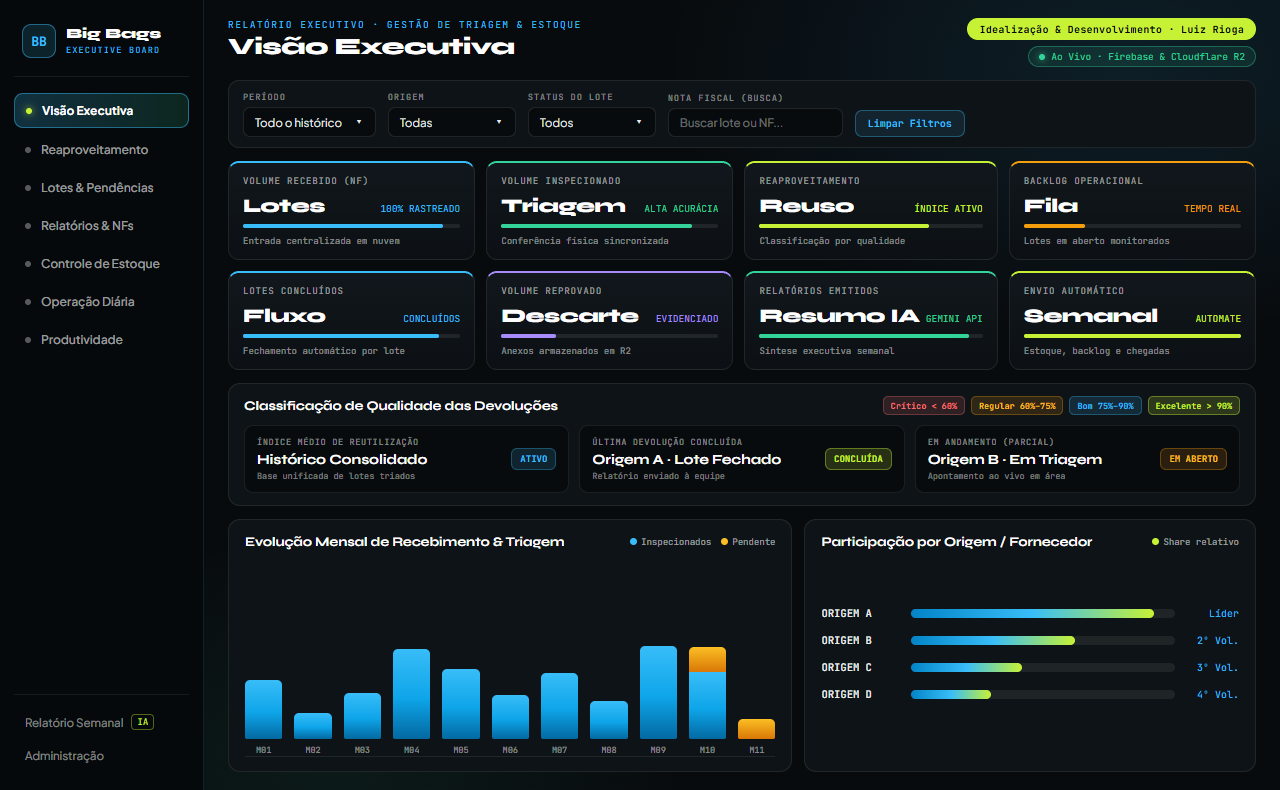
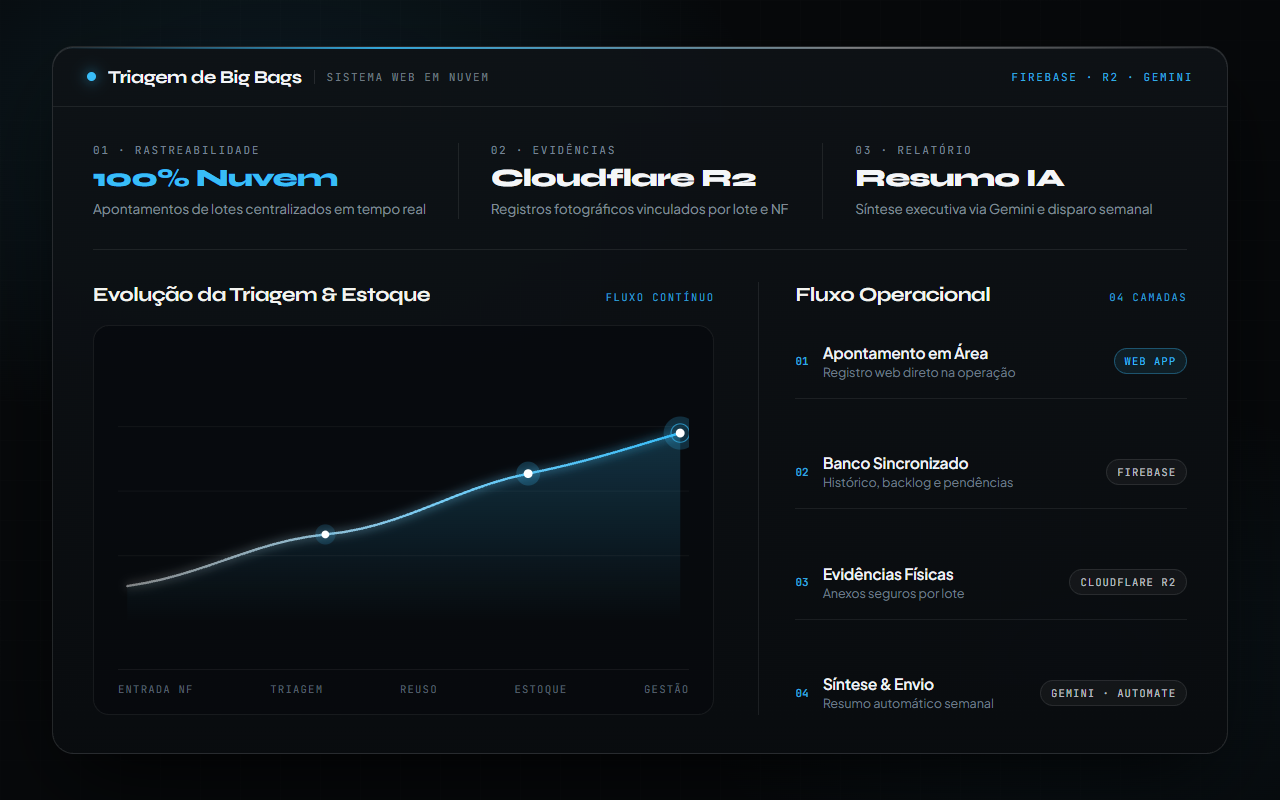
Revert Formacao badges test and replace Big Bags & Fretefy images with minimalist UI art

diff --git a/js/main.js b/js/main.js
@@ -1487,12 +1487,12 @@
       } else if (p.id === 'bigbag') {
         mediaInner = `
           <div class="relative w-full h-[154px] rounded-[14px] overflow-hidden border border-[#38BDF8]/35 bg-[#070A0D] flex items-center justify-center p-1">
-            <img src="assets/bigbag-app.png?v=20261124b" alt="Interface do sistema de Triagem de Big Bags" loading="lazy" decoding="async" draggable="false" class="w-full h-full object-cover object-left-top rounded-[10px] select-none" />
+            <img src="assets/bigbag-app.png?v=20261128a" alt="Interface do sistema de Triagem de Big Bags" loading="lazy" decoding="async" draggable="false" class="w-full h-full object-cover object-left-top rounded-[10px] select-none" />
           </div>`;
       } else if (p.id === 'fretefy') {
         mediaInner = `
           <div class="relative w-full h-[154px] rounded-[14px] overflow-hidden border border-[#F59E0B]/35 bg-[#090806] flex items-center justify-center p-1">
-            <img src="assets/fretefy-panel.png?v=20261124b" alt="Painel BI de carregamento Fretefy" loading="lazy" decoding="async" draggable="false" class="w-full h-full object-cover object-top rounded-[10px] select-none" />
+            <img src="assets/fretefy-panel.png?v=20261128a" alt="Painel BI de carregamento Fretefy" loading="lazy" decoding="async" draggable="false" class="w-full h-full object-cover object-top rounded-[10px] select-none" />
           </div>`;
       } else {
         mediaInner = `
@@ -1556,7 +1556,7 @@
 
             <div data-deck-bb-panel="ui" class="flex-1 flex flex-col justify-between gap-3">
               <div class="relative rounded-xl overflow-hidden border border-[#38BDF8]/30 bg-[#070A0D] flex-1 min-h-[285px] flex items-center justify-center p-1.5 group/bb">
-                <img src="assets/bigbag-app.png?v=20261124b" alt="Interface executiva do sistema de Triagem de Big Bags" loading="lazy" decoding="async" draggable="false" class="w-full h-full max-h-[335px] object-contain rounded-lg group-hover/bb:scale-[1.015] transition-transform duration-500 select-none" />
+                <img src="assets/bigbag-app.png?v=20261128a" alt="Interface executiva do sistema de Triagem de Big Bags" loading="lazy" decoding="async" draggable="false" class="w-full h-full max-h-[335px] object-contain rounded-lg group-hover/bb:scale-[1.015] transition-transform duration-500 select-none" />
               </div>
               <div class="px-3.5 py-2.5 rounded-xl bg-carbon border hairline-dark font-mono text-[10px] text-ink/80 flex items-center justify-between gap-2">
                 <span>Visão Executiva em tempo real · triagem, estoque e backlog</span>
@@ -1603,7 +1603,7 @@
 
             <div data-deck-fr-panel="ui" class="flex-1 flex flex-col justify-between gap-3">
               <div class="relative rounded-xl overflow-hidden border border-[#F59E0B]/30 bg-[#090806] flex-1 min-h-[285px] flex items-center justify-center p-1.5 group/fr">
-                <img src="assets/fretefy-panel.png?v=20261124b" alt="Painel operacional de carregamento gerado pelo pipeline ETL em Power Query" loading="lazy" decoding="async" draggable="false" class="w-full h-full max-h-[335px] object-contain rounded-lg group-hover/fr:scale-[1.015] transition-transform duration-500 select-none" />
+                <img src="assets/fretefy-panel.png?v=20261128a" alt="Painel operacional de carregamento gerado pelo pipeline ETL em Power Query" loading="lazy" decoding="async" draggable="false" class="w-full h-full max-h-[335px] object-contain rounded-lg group-hover/fr:scale-[1.015] transition-transform duration-500 select-none" />
               </div>
               <div class="px-3.5 py-2.5 rounded-xl bg-carbon border hairline-dark font-mono text-[10px] text-ink/80 flex items-center justify-between gap-2">
                 <span>Painel de carregamento · 8 KPIs por dia, turno, doca e frota</span>
@@ -2363,7 +2363,7 @@
             title: 'Automação Fretefy',
             sub: 'Power Query · TPV < 5 min · 8 KPIs',
             accent: '#F59E0B',
-            img: 'assets/fretefy-panel.png?v=20261124b'
+            img: 'assets/fretefy-panel.png?v=20261128a'
           },
           {
             id: 'bigbag',
@@ -2371,7 +2371,7 @@
             title: 'Triagem de Big Bags',
             sub: 'Web · Firebase · R2 · Gemini API',
             accent: '#38BDF8',
-            img: 'assets/bigbag-app.png?v=20261124b'
+            img: 'assets/bigbag-app.png?v=20261128a'
           }
         ],
         accent: '#38BDF8',
@@ -3618,7 +3618,7 @@
             <span class="text-muted">WEB · FIREBASE · R2 · IA</span>
           </div>
           <div class="rounded-xl overflow-hidden border border-white/10 bg-[#070A0D]">
-            <img src="assets/bigbag-app.png?v=20261124b" alt="Tela Visão Executiva do sistema web de Triagem de Big Bags" loading="lazy" decoding="async" class="w-full h-auto block" />
+            <img src="assets/bigbag-app.png?v=20261128a" alt="Tela Visão Executiva do sistema web de Triagem de Big Bags" loading="lazy" decoding="async" class="w-full h-auto block" />
           </div>
         </div>
         ${buildIsometricWidgetHTML('bigbag', 'ECOSSISTEMA DIGITAL · 06 CAMADAS', 'Operação → Nuvem → IA → Distribuição semanal', project)}
@@ -3646,7 +3646,7 @@
             <span class="text-muted">EXCEL · POWER QUERY · 8 KPIS</span>
           </div>
           <div class="rounded-xl overflow-hidden border border-white/10 bg-[#090806]">
-            <img src="assets/fretefy-panel.png?v=20261124b" alt="Painel de operações de carregamento automatizado em Excel e Power Query" loading="lazy" decoding="async" class="w-full h-auto block" />
+            <img src="assets/fretefy-panel.png?v=20261128a" alt="Painel de operações de carregamento automatizado em Excel e Power Query" loading="lazy" decoding="async" class="w-full h-auto block" />
           </div>
         </div>
         ${buildIsometricWidgetHTML('fretefy-etl', 'FRETEFY ETL · 04 ESTÁGIOS 3D', 'Pipeline Power Query → TPV & 8 KPIs', project)}
@@ -4501,7 +4501,7 @@
   renderMobileToolbox();
 
   /* ==========================================================================
-     17b. QUADRO DE INSÍGNIAS — SELOS CONQUISTADOS, EM ROTA & CAMPO (PATCHES)
+     17b. MATRIZ ACADÊMICA INTERATIVA (SEM BARRAS DE PROFICIÊNCIA)
      ========================================================================== */
   (function initDifferentialsMatrix() {
     const shell = document.getElementById('diff-matrix-shell');
@@ -4512,78 +4512,38 @@
     if (!shell || !grid) return;
 
     const modeBtns = Array.from(shell.querySelectorAll('[data-diff-mode]'));
-    const MODE_ORDER = ['selos', 'rota', 'campo'];
+    const MODE_ORDER = ['base', 'hard', 'soft'];
     const CYCLE_MS = 5500;
 
-    function buildPatchCrest(iconSvg, color, isTarget) {
-      return `
-        <svg class="patch-crest" viewBox="0 0 40 40" fill="none" aria-hidden="true">
-          <polygon
-            points="20,2.5 35,11 35,29 20,37.5 5,29 5,11"
-            fill="${color}18"
-            stroke="${color}"
-            stroke-width="1.35"
-            ${isTarget ? 'stroke-dasharray="3.5 2.5"' : ''}
-            stroke-linejoin="round"
-          />
-          <polygon
-            points="20,6.2 31.8,12.9 31.8,27.1 20,33.8 8.2,27.1 8.2,12.9"
-            fill="none"
-            stroke="${color}"
-            stroke-opacity="0.34"
-            stroke-width="0.85"
-            stroke-dasharray="2 2"
-          />
-          <g stroke="${color}" stroke-width="1.55" stroke-linecap="round" stroke-linejoin="round">
-            ${iconSvg}
-          </g>
-        </svg>`;
-    }
-
-    const PATCH_ICONS = {
-      ai: '<path d="M20 12.5l1.9 5.1 5.1 1.9-5.1 1.9-1.9 5.1-1.9-5.1-5.1-1.9 5.1-1.9 1.9-5.1z"/><circle cx="25.5" cy="14.5" r="1.1" fill="currentColor" stroke="none"/>',
-      orbit: '<circle cx="20" cy="20" r="3.2"/><ellipse cx="20" cy="20" rx="8.8" ry="3.8" transform="rotate(-28 20 20)"/><circle cx="26.2" cy="15.8" r="1.4" fill="currentColor" stroke="none"/>',
-      star: '<path d="M20 12.2l2.3 4.8 5.2.7-3.8 3.6.9 5.2-4.6-2.5-4.6 2.5.9-5.2-3.8-3.6 5.2-.7 2.3-4.8z"/>',
-      math: '<polygon points="20,12 27.5,16.5 27.5,24.5 20,28.5 12.5,24.5 12.5,16.5"/><path d="M20 12v16.5M12.5 16.5L20 20.5l7.5-4"/>',
-      git: '<circle cx="15.5" cy="14.5" r="2"/><circle cx="15.5" cy="25.5" r="2"/><circle cx="24.5" cy="18.5" r="2"/><path d="M15.5 16.5v7M24.5 20.5c0 3-4.5 3-9 3"/>',
-      process: '<path d="M14.5 17a5.5 5.5 0 0 1 9.6-2.5"/><path d="M24.5 12.5v2.8h-2.8"/><path d="M25.5 23a5.5 5.5 0 0 1-9.6 2.5"/><path d="M15.5 27.5v-2.8h2.8"/>',
-      eng: '<path d="M13.5 25.5h13M15.5 22.5v-5.5l4.5-3.5 4.5 3.5v5.5"/><path d="M18.5 22.5v-3.5h3v3.5"/>',
-      cloud: '<path d="M15 24.5h9.5a3.5 3.5 0 0 0 .7-6.9 4.8 4.8 0 0 0-9.1-1.3 3.3 3.3 0 0 0-1.1 8.2z"/>',
-      mic: '<rect x="17.5" y="12.5" width="5" height="8.5" rx="2.5"/><path d="M14.5 19.5a5.5 5.5 0 0 0 11 0M20 25v3M17 28h6"/>',
-      chip: '<rect x="16" y="16" width="8" height="8" rx="1.2"/><path d="M18 12.5v3.5M22 12.5v3.5M18 24v3.5M22 24v3.5M12.5 18h3.5M12.5 22h3.5M24 18h3.5M24 22h3.5"/>',
-      compass: '<circle cx="20" cy="20" r="7.5"/><polygon points="23.5,16.5 21.2,21.2 16.5,23.5 18.8,18.8"/>',
-      field: '<path d="M14 20.5l3.6 3.5 8.4-8.2"/><path d="M13.5 14h4M13.5 26.5h13"/>'
-    };
-
     const MODES = {
-      selos: {
-        eyebrow: 'INSÍGNIAS // SELOS CONQUISTADOS',
-        tag: 'MÉRITO COMPROVADO',
+      base: {
+        eyebrow: 'BASE // FORMAÇÃO & PRÁTICA',
+        tag: 'TEORIA → PRÁTICA',
         items: [
-          { badge: '2026', title: 'Google AI Pro', sub: 'Coursera · 8 módulos', color: '#C6F135', icon: 'ai', target: false },
-          { badge: '2026', title: 'NASA Space Apps', sub: 'Desafio Global · AgTech', color: '#38BDF8', icon: 'orbit', target: false },
-          { badge: '2023', title: 'Rio Innovation Week', sub: 'Exposição Bitmind · 3ª ed.', color: '#F59E0B', icon: 'star', target: false },
-          { badge: '1.280h', title: 'Aprendizagem Ind.', sub: 'Rede Cidadã · 2025', color: '#A78BFA', icon: 'math', target: false }
+          { cat: 'ENGENHARIA', title: 'Controle & Automação', sub: 'UFOP · Escola de Minas', color: '#C6F135' },
+          { cat: 'TÉCNICO', title: 'Automação Industrial', sub: 'IFMG · CLP & Bancada', color: '#F59E0B' },
+          { cat: 'INOVAÇÃO', title: 'Hardware, Web & IA', sub: 'Bitmind · RIW · AgTech', color: '#38BDF8' },
+          { cat: 'OPERACIONAL', title: 'Indústria & Dados', sub: 'Actech · Expedição', color: '#A78BFA' }
         ]
       },
-      rota: {
-        eyebrow: 'RADAR // PRÓXIMOS SELOS',
-        tag: 'EM PREPARAÇÃO',
+      hard: {
+        eyebrow: 'COMPETÊNCIAS // TÉCNICAS',
+        tag: 'FERRAMENTAS APLICADAS',
         items: [
-          { badge: 'META', title: 'GitHub Foundations', sub: 'Em preparo · Git & fluxo', color: '#38BDF8', icon: 'git', target: true },
-          { badge: 'PRÓXIMO', title: 'Analista Processos', sub: 'Efetivação · Actech', color: '#C6F135', icon: 'process', target: true },
-          { badge: 'RADAR', title: 'Cloud & Dados', sub: 'Trilha de certificações', color: '#A78BFA', icon: 'cloud', target: true },
-          { badge: 'CONTÍNUO', title: 'IA & Automação', sub: 'Agentes & integrações', color: '#F59E0B', icon: 'ai', target: true }
+          { cat: 'DADOS & ETL', title: 'Power Query & Excel', sub: 'TPV · 8 KPIs · Dashboards', color: '#F59E0B' },
+          { cat: 'WEB & NUVEM', title: 'Web, Firebase & R2', sub: 'HTML · CSS · JS · APIs', color: '#38BDF8' },
+          { cat: 'AUTOMAÇÃO & IA', title: 'Gemini & Automate', sub: 'Apps Script · Fluxos', color: '#C6F135' },
+          { cat: 'HARDWARE', title: 'Arduino, ESP32 & CLP', sub: 'Sensores · Bancada', color: '#34D399' }
         ]
       },
-      campo: {
-        eyebrow: 'INSÍGNIAS // PALCO & CAMPO',
-        tag: 'PRÁTICA & EQUIPE',
+      soft: {
+        eyebrow: 'COMPETÊNCIAS // ATUAÇÃO',
+        tag: 'ROTINA & EQUIPE',
         items: [
-          { badge: '2024', title: 'Palestrante Técnico', sub: 'IFMG Itabirito · Autom.', color: '#F59E0B', icon: 'mic', target: false },
-          { badge: '2023', title: 'Ministrante', sub: 'Oficina · Lixo Eletrônico', color: '#34D399', icon: 'chip', target: false },
-          { badge: 'BITMIND', title: 'Líder de Equipe', sub: 'V Olimpíada → RIW 2023', color: '#38BDF8', icon: 'compass', target: false },
-          { badge: 'ACTECH', title: 'Treinamento em Área', sub: 'Adoção de fluxos digitais', color: '#C6F135', icon: 'field', target: false }
+          { cat: 'EQUIPE', title: 'Trabalho em Equipe', sub: 'Bitmind · Bitmindop', color: '#C6F135' },
+          { cat: 'COMUNICAÇÃO', title: 'Pitch & Procedimentos', sub: 'RIW · Treinamentos', color: '#38BDF8' },
+          { cat: 'VISÃO DE PROCESSO', title: 'Ponta a Ponta', sub: 'Chão de fábrica → nuvem', color: '#F59E0B' },
+          { cat: 'ORGANIZAÇÃO', title: 'Rotina & Padrão', sub: 'Qualyteam · Actech', color: '#A78BFA' }
         ]
       }
     };
@@ -4622,24 +4582,17 @@
         .map(
           (item, idx) => `
           <div
-            class="diff-tile patch-tile ${animate && !prefersReducedMotion ? 'is-entering ' : ''}h-full min-h-[112px] flex flex-col justify-between gap-2.5 p-3 rounded-lg border hairline-dark"
-            data-status="${item.target ? 'target' : 'earned'}"
-            style="--patch-color:${item.color}; border-top:2px solid ${item.color}; --diff-delay:${idx * 55}ms;"
+            class="diff-tile ${animate && !prefersReducedMotion ? 'is-entering ' : ''}h-full min-h-[96px] flex flex-col justify-between gap-2 p-3 rounded-lg bg-carbon border hairline-dark"
+            style="border-top:2px solid ${item.color}; --diff-delay:${idx * 55}ms;"
           >
-            <div class="flex items-start justify-between gap-2">
-              ${buildPatchCrest(PATCH_ICONS[item.icon] || PATCH_ICONS.star, item.color, item.target)}
-              <span
-                class="patch-status-pill shrink-0"
-                style="color:${item.color}; background:${item.color}16; border:1px solid ${item.color}${item.target ? '52' : '40'};"
-              >
-                <span class="w-1.5 h-1.5 rounded-full ${item.target ? 'acad-node-pulse' : ''}" style="background:${item.color};"></span>
-                <span>${item.badge}</span>
-              </span>
+            <div class="space-y-1">
+              <div class="flex items-center justify-between gap-1 font-mono text-[9px] uppercase tracking-wider" style="color:${item.color};">
+                <span class="truncate font-semibold">${item.cat}</span>
+                <span class="w-1.5 h-1.5 rounded-full shrink-0" style="background:${item.color};"></span>
+              </div>
+              <div class="font-display text-[12.5px] font-bold text-ink leading-snug">${item.title}</div>
             </div>
-            <div class="space-y-0.5 min-w-0">
-              <div class="font-display text-[12.5px] font-bold text-ink leading-snug truncate">${item.title}</div>
-              <div class="font-mono text-[9.5px] text-muted truncate">${item.sub}</div>
-            </div>
+            <div class="font-mono text-[9.5px] text-muted truncate">${item.sub}</div>
           </div>`
         )
         .join('');
@@ -4693,7 +4646,7 @@
       }
     }, '0px');
 
-    renderMode('selos', false);
+    renderMode('base', false);
   })();
 
   /* ==========================================================================

diff --git a/index.html b/index.html
@@ -62,7 +62,7 @@
     };
   </script>
 
-  <link rel="stylesheet" href="css/styles.css?v=20261126e" />
+  <link rel="stylesheet" href="css/styles.css?v=20261126c" />
 </head>
 <body class="bg-carbon text-ink antialiased selection:bg-limeTech selection:text-inkDark">
 
@@ -766,22 +766,22 @@
               </p>
             </div>
 
-            <!-- Quadro de Insígnias: Selos · Em Rota · Campo (desktop/tablet) -->
+            <!-- Matriz interativa: Base · Técnicas · Atuação (desktop/tablet) -->
             <div id="diff-matrix-shell" class="hidden md:block diff-matrix-shell relative overflow-hidden p-4 rounded-xl bg-graphite border hairline-dark space-y-3">
               <div class="flex items-center justify-between gap-2 font-mono text-[10px] uppercase tracking-widest text-muted">
-                <span id="diff-matrix-eyebrow" class="truncate">INSÍGNIAS // SELOS CONQUISTADOS</span>
-                <span id="diff-matrix-tag" class="text-limeTech shrink-0">MÉRITO COMPROVADO</span>
+                <span id="diff-matrix-eyebrow" class="truncate">BASE // FORMAÇÃO &amp; PRÁTICA</span>
+                <span id="diff-matrix-tag" class="text-limeTech shrink-0">TEORIA → PRÁTICA</span>
               </div>
 
-              <div class="grid grid-cols-3 gap-1 p-1 rounded-lg bg-carbon border hairline-dark font-mono text-[9.5px] uppercase tracking-wider" role="tablist" aria-label="Alternar selos conquistados, próximos selos em rota e insígnias de campo">
-                <button type="button" role="tab" aria-selected="true" data-diff-mode="selos" data-active="true" class="diff-mode-btn py-1.5 px-1.5 rounded-md text-center transition-all cursor-pointer">
-                  Selos
+              <div class="grid grid-cols-3 gap-1 p-1 rounded-lg bg-carbon border hairline-dark font-mono text-[9.5px] uppercase tracking-wider" role="tablist" aria-label="Alternar base, competências técnicas e atuação">
+                <button type="button" role="tab" aria-selected="true" data-diff-mode="base" data-active="true" class="diff-mode-btn py-1.5 px-1.5 rounded-md text-center transition-all">
+                  Base
                 </button>
-                <button type="button" role="tab" aria-selected="false" data-diff-mode="rota" data-active="false" class="diff-mode-btn py-1.5 px-1.5 rounded-md text-center transition-all cursor-pointer">
-                  Em Rota
+                <button type="button" role="tab" aria-selected="false" data-diff-mode="hard" data-active="false" class="diff-mode-btn py-1.5 px-1.5 rounded-md text-center transition-all">
+                  Técnicas
                 </button>
-                <button type="button" role="tab" aria-selected="false" data-diff-mode="campo" data-active="false" class="diff-mode-btn py-1.5 px-1.5 rounded-md text-center transition-all cursor-pointer">
-                  Campo
+                <button type="button" role="tab" aria-selected="false" data-diff-mode="soft" data-active="false" class="diff-mode-btn py-1.5 px-1.5 rounded-md text-center transition-all">
+                  Atuação
                 </button>
               </div>
 
@@ -1678,6 +1678,6 @@
   <script src="js/journey/fallback-2d.js?v=20261124c" defer></script>
   <script src="js/journey/engine.js?v=20261124c" defer></script>
 
-  <script src="js/main.js?v=20261126e" defer></script>
+  <script src="js/main.js?v=20261128a" defer></script>
 </body>
 </html>

diff --git a/css/styles.css b/css/styles.css
@@ -1209,45 +1209,6 @@ main > section[id] {
     background-color: #101210;
     transform: translateY(-2px);
   }
-  .diff-tile:hover .patch-crest {
-    transform: scale(1.07) rotate(-3deg);
-    filter: drop-shadow(0 0 10px color-mix(in srgb, var(--patch-color, #C6F135) 55%, transparent));
-  }
-}
-
-.patch-tile {
-  background:
-    radial-gradient(circle at 18% 18%, color-mix(in srgb, var(--patch-color, #C6F135) 9%, transparent) 0%, transparent 62%),
-    #0B0C0B;
-}
-
-.patch-tile[data-status="target"] {
-  border-style: dashed;
-  border-color: rgba(255, 255, 255, 0.14);
-  background:
-    radial-gradient(circle at 18% 18%, color-mix(in srgb, var(--patch-color, #38BDF8) 7%, transparent) 0%, transparent 58%),
-    #0A0B0A;
-}
-
-.patch-crest {
-  width: 34px;
-  height: 34px;
-  flex-shrink: 0;
-  transition: transform 0.3s var(--ease-editorial), filter 0.3s var(--ease-editorial);
-}
-
-.patch-status-pill {
-  display: inline-flex;
-  align-items: center;
-  gap: 4px;
-  padding: 2px 6px;
-  border-radius: 9999px;
-  font-family: 'JetBrains Mono', monospace;
-  font-size: 8.5px;
-  font-weight: 600;
-  letter-spacing: 0.08em;
-  text-transform: uppercase;
-  line-height: 1.2;
 }
 
 /* ==========================================================================
